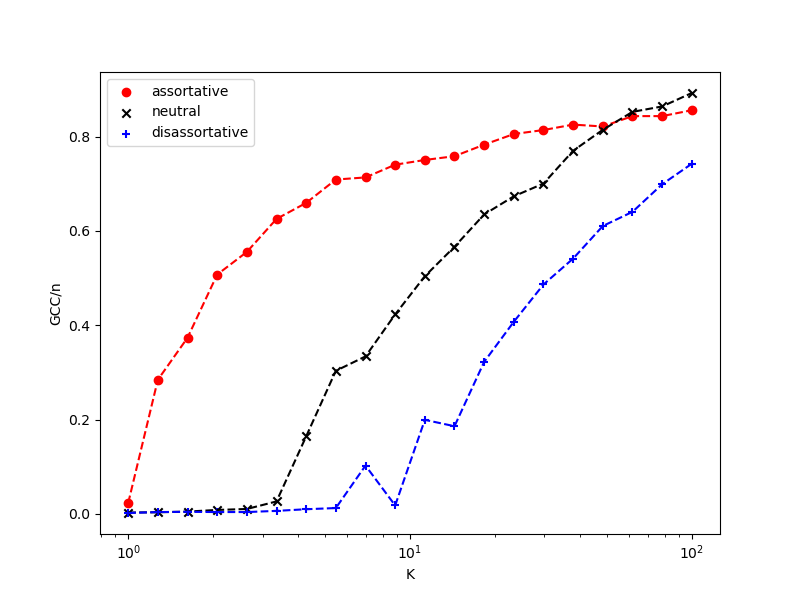
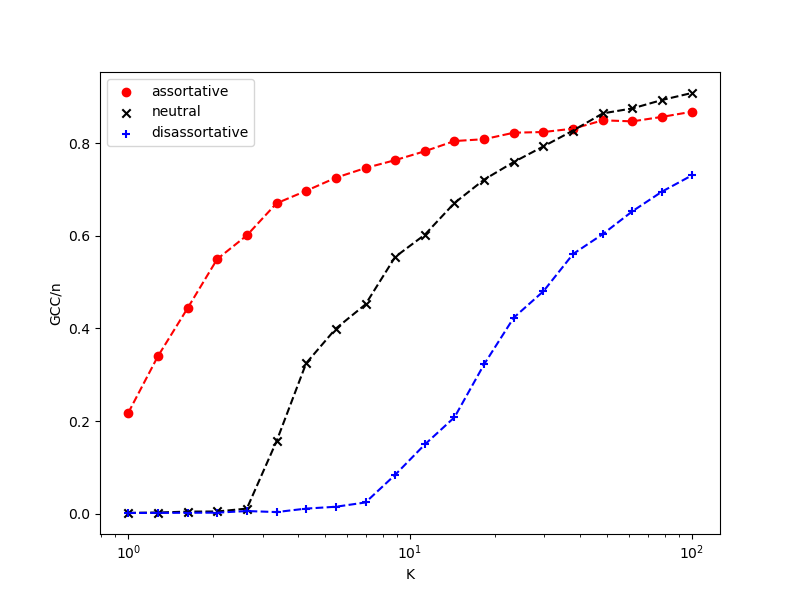
newDelta.pdf

diff --git a/Roya.py b/Roya.py
@@ -11,8 +11,8 @@ from sklearn.preprocessing import normalize
 
 #######################################################
 KK=np.logspace(np.log10(1), np.log10(100), num=20)
-num_nodes = 2000
-iterations= 2000
+num_nodes = 4000
+iterations= 4000
 #####################################################3
 
 def generate_random_graph(degree_sequence):
@@ -62,7 +62,7 @@ G_A=[]
 asort_A=[]
 
 for K in KK:
-    N=10+2*int(K)
+    N=10+4*int(K)
     p = 0.5
     q = 1-p
     EJK=np.zeros((N,N))
@@ -114,7 +114,7 @@ G_N=[]
 asort_N=[]
 
 for K in KK:
-    N=10+2*int(K)
+    N=10+4*int(K)
     p = 0.1464
     q = 1-p
     EJK=np.zeros((N,N))
